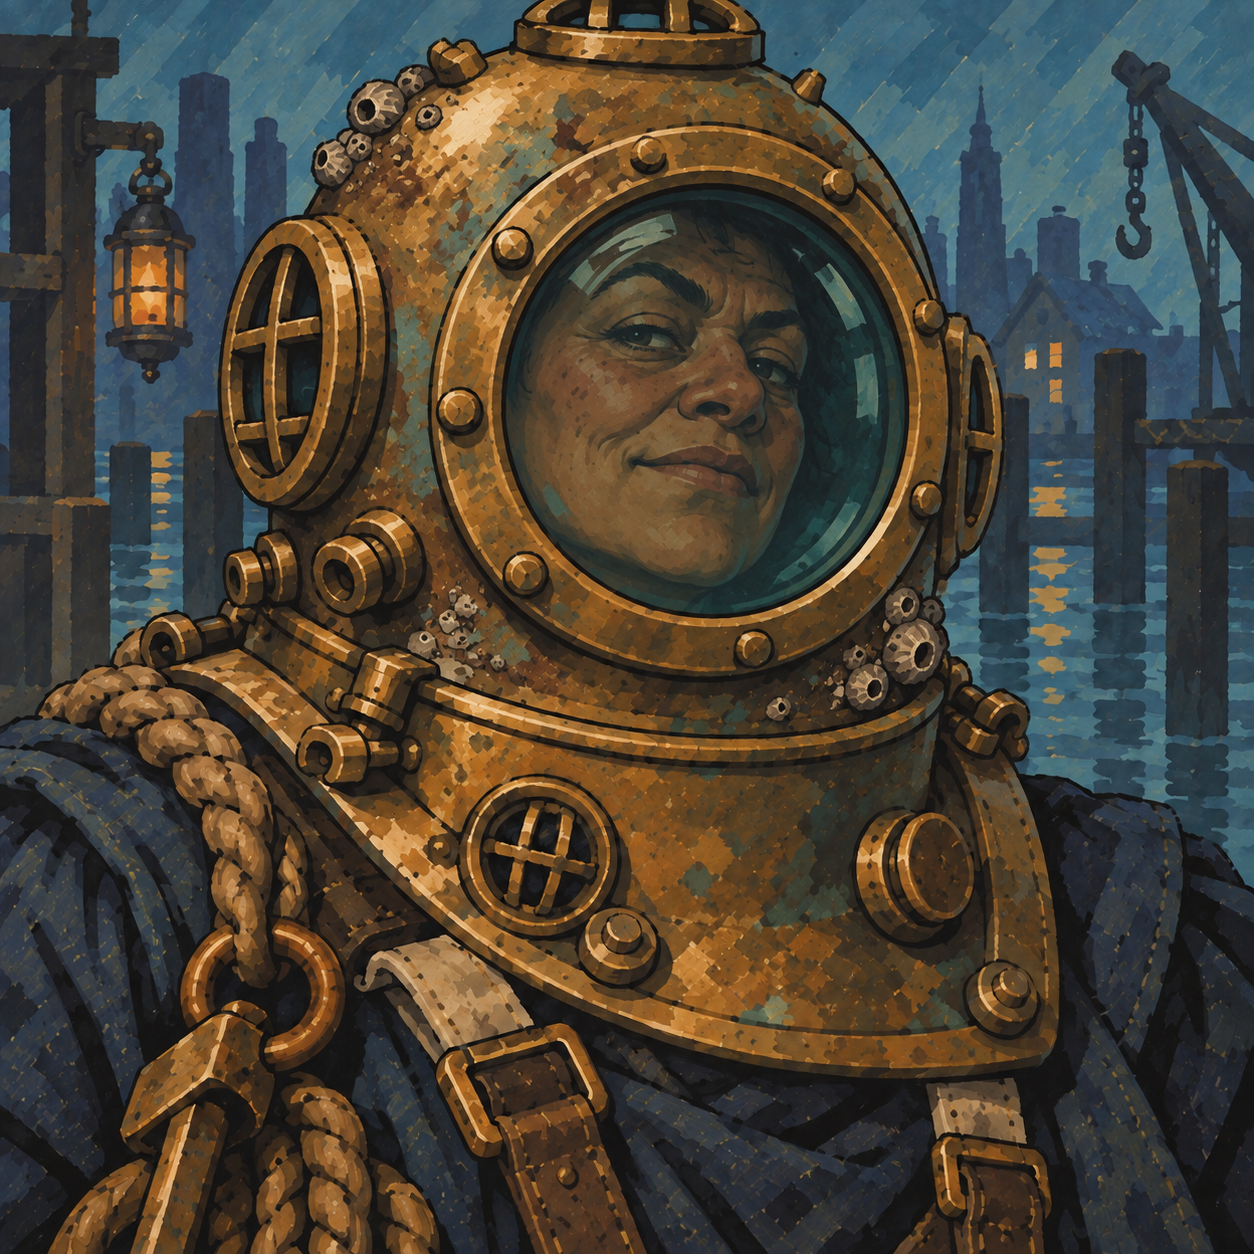
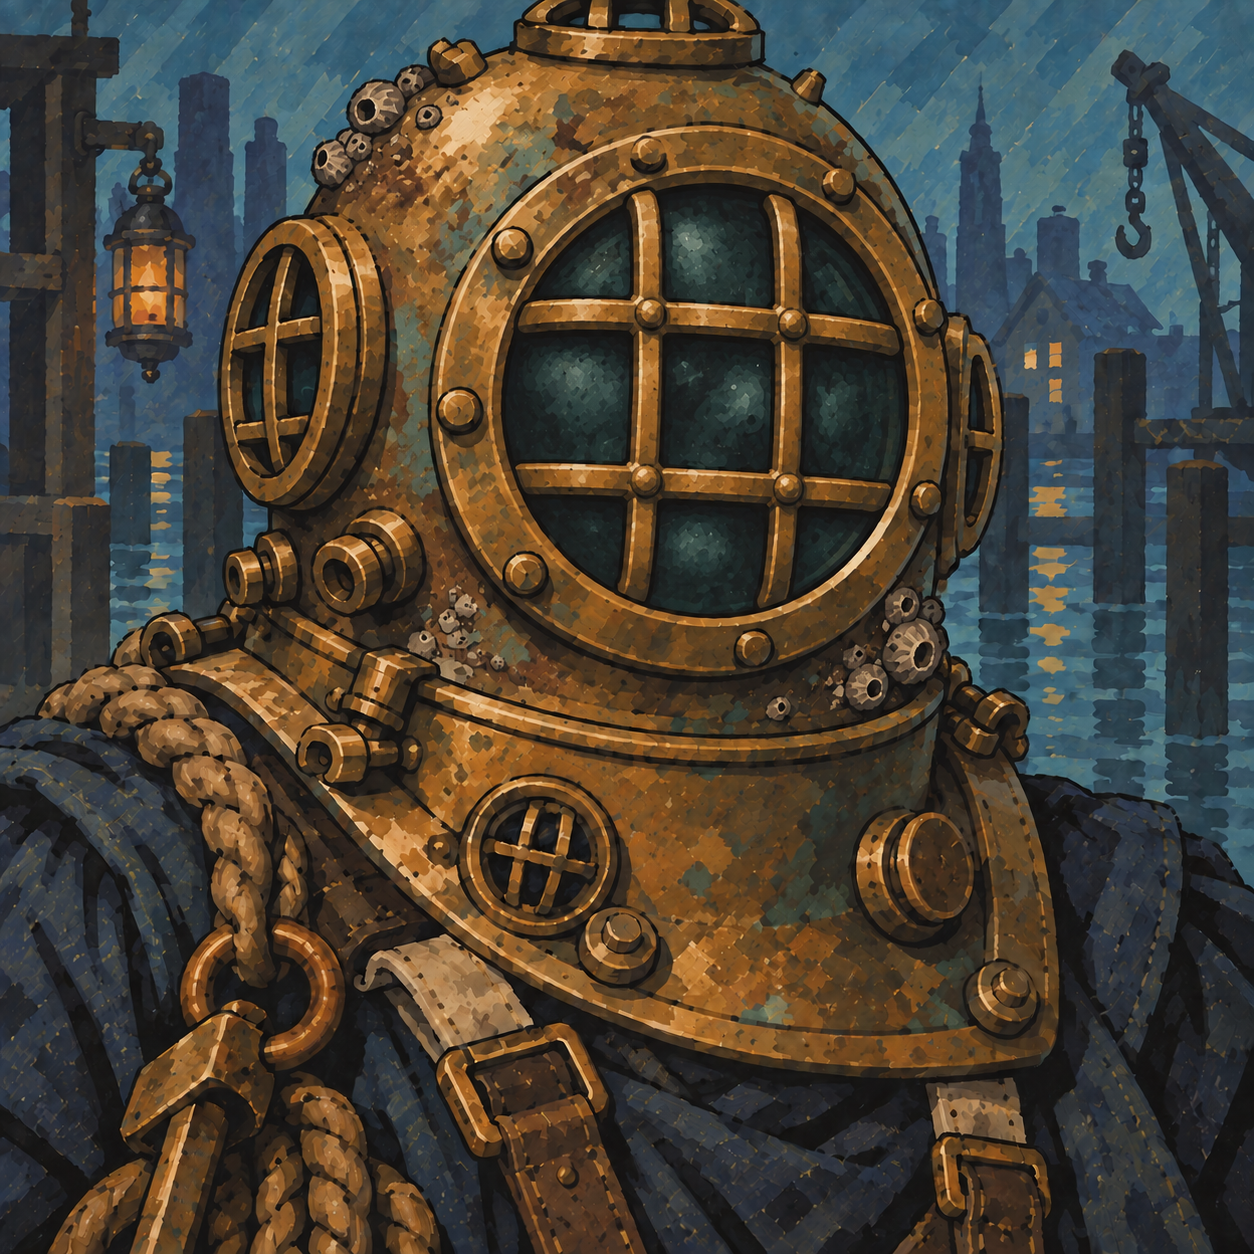
Initial commit

diff --git a/resources/js/components/chanting/CharacterPortrait.vue b/resources/js/components/chanting/CharacterPortrait.vue
@@ -32,7 +32,7 @@ const portraitImages: Record<string, string> = {
     seasonal_oathkeeper:
         '/assets/chanting/unlocks/seasonal_oathkeeper-illustrated.png',
     fae_envoy: '/assets/chanting/expansions/fae_envoy-illustrated.png?v=2',
-    drowned_diver: '/assets/chanting/expansions/drowned_diver-illustrated.png?v=2',
+    drowned_diver: '/assets/chanting/expansions/drowned_diver-illustrated.png?v=3',
     relic_broker: '/assets/chanting/expansions/relic_broker-illustrated.png',
     hollow_cantor: '/assets/chanting/expansions/hollow_cantor-illustrated.png',
     carnival_ringmaster:

diff --git a/docs/expansion-characters-art.md b/docs/expansion-characters-art.md
@@ -172,3 +172,18 @@ Exact prompt:
 ```text
 Use case: precise-object-edit. Edit the supplied single square game portrait. Preserve its exact dark ink outlines, angular opaque gouache brush shapes, muted navy/teal/olive/burgundy/brass palette and expressive illustrated storybook finish. No photorealism, no 3D rendering, no smooth airbrushed skin. Keep the square close chest-up composition and original background. One portrait only, no border, text or watermark. Transform the Ringmaster into a white, fair-skinned adult man with a flamboyant ginger handlebar moustache, both ends rolled upward into distinct curls. Give him tousled ginger hair, a masculine angular face, light freckled peach/ivory skin consistently on face, ears, neck and hand, and a clean-shaven chin so the curled moustache is prominent. Make him look a little wild and unhinged in a playful theatrical way: bright wide eyes, one dramatically cocked eyebrow, and an impish lopsided toothy grin. No horror or gore. Preserve the jaunty short plum top hat, teal-and-burgundy striped ringmaster coat with brass fastenings, small fan of three prediction cards, carnival tent backdrop and painterly finish. Keep the complete hat in frame with small headroom and the face large enough to read as a tiny avatar.
 ```
+
+
+### Deep Diver: opaque glass and protective grille (revision 3)
+
+Generated with the built-in image_gen tool; visually inspected to confirm the face is completely concealed, the glass is dark and fogged, and thick brass bars run vertically and horizontally. Copied unchanged to `public/assets/chanting/expansions/drowned_diver-illustrated.png`. Portrait URL revision advanced to 3 to refresh cached store and wardrobe images.
+
+Edit input: the previous helmeted Deep Diver portrait (revision 2).
+
+Generated source: `C:\Users\nurdo\.codex\generated_images\01a09a12-d4c4-7453-bbfa-e69d41487edd\exec-569608b9-72fa-4b2a-95e7-8cc0dd70c092.png`
+
+Exact prompt:
+
+```text
+Use case: precise-object-edit. Edit the supplied single square illustrated game portrait of the Deep Diver. Change only the helmet viewports: the large front glass must be very dark, heavily fogged, opaque deep teal-black, with hazy condensation and subtle broad painterly cloudy patches. COMPLETELY conceal the occupant: absolutely no visible face, eyes, mouth, skin, head silhouette or facial features behind the glass. Across the circular front viewport add a clearly visible protective metal grille of thick worn brass bars running both VERTICALLY and HORIZONTALLY, intersecting into a sturdy rectangular lattice firmly attached to its circular brass rim. Make these structural metal bars substantial and readable at small avatar sizes, with dark ink edges and angular painted highlights, matching the helmet brass. Any side viewport must also be dark and opaque with protective bars. Preserve the existing riveted brass helmet shape, weathered patina and barnacles, diving suit, brass shoulder collar, ropes, chains, harbor background, composition, square dimensions and exact dark-ink/angular-opaque-gouache illustrated style. No photographic rendering or smooth 3D metal. One portrait, no text, no watermark, no border.
+```
